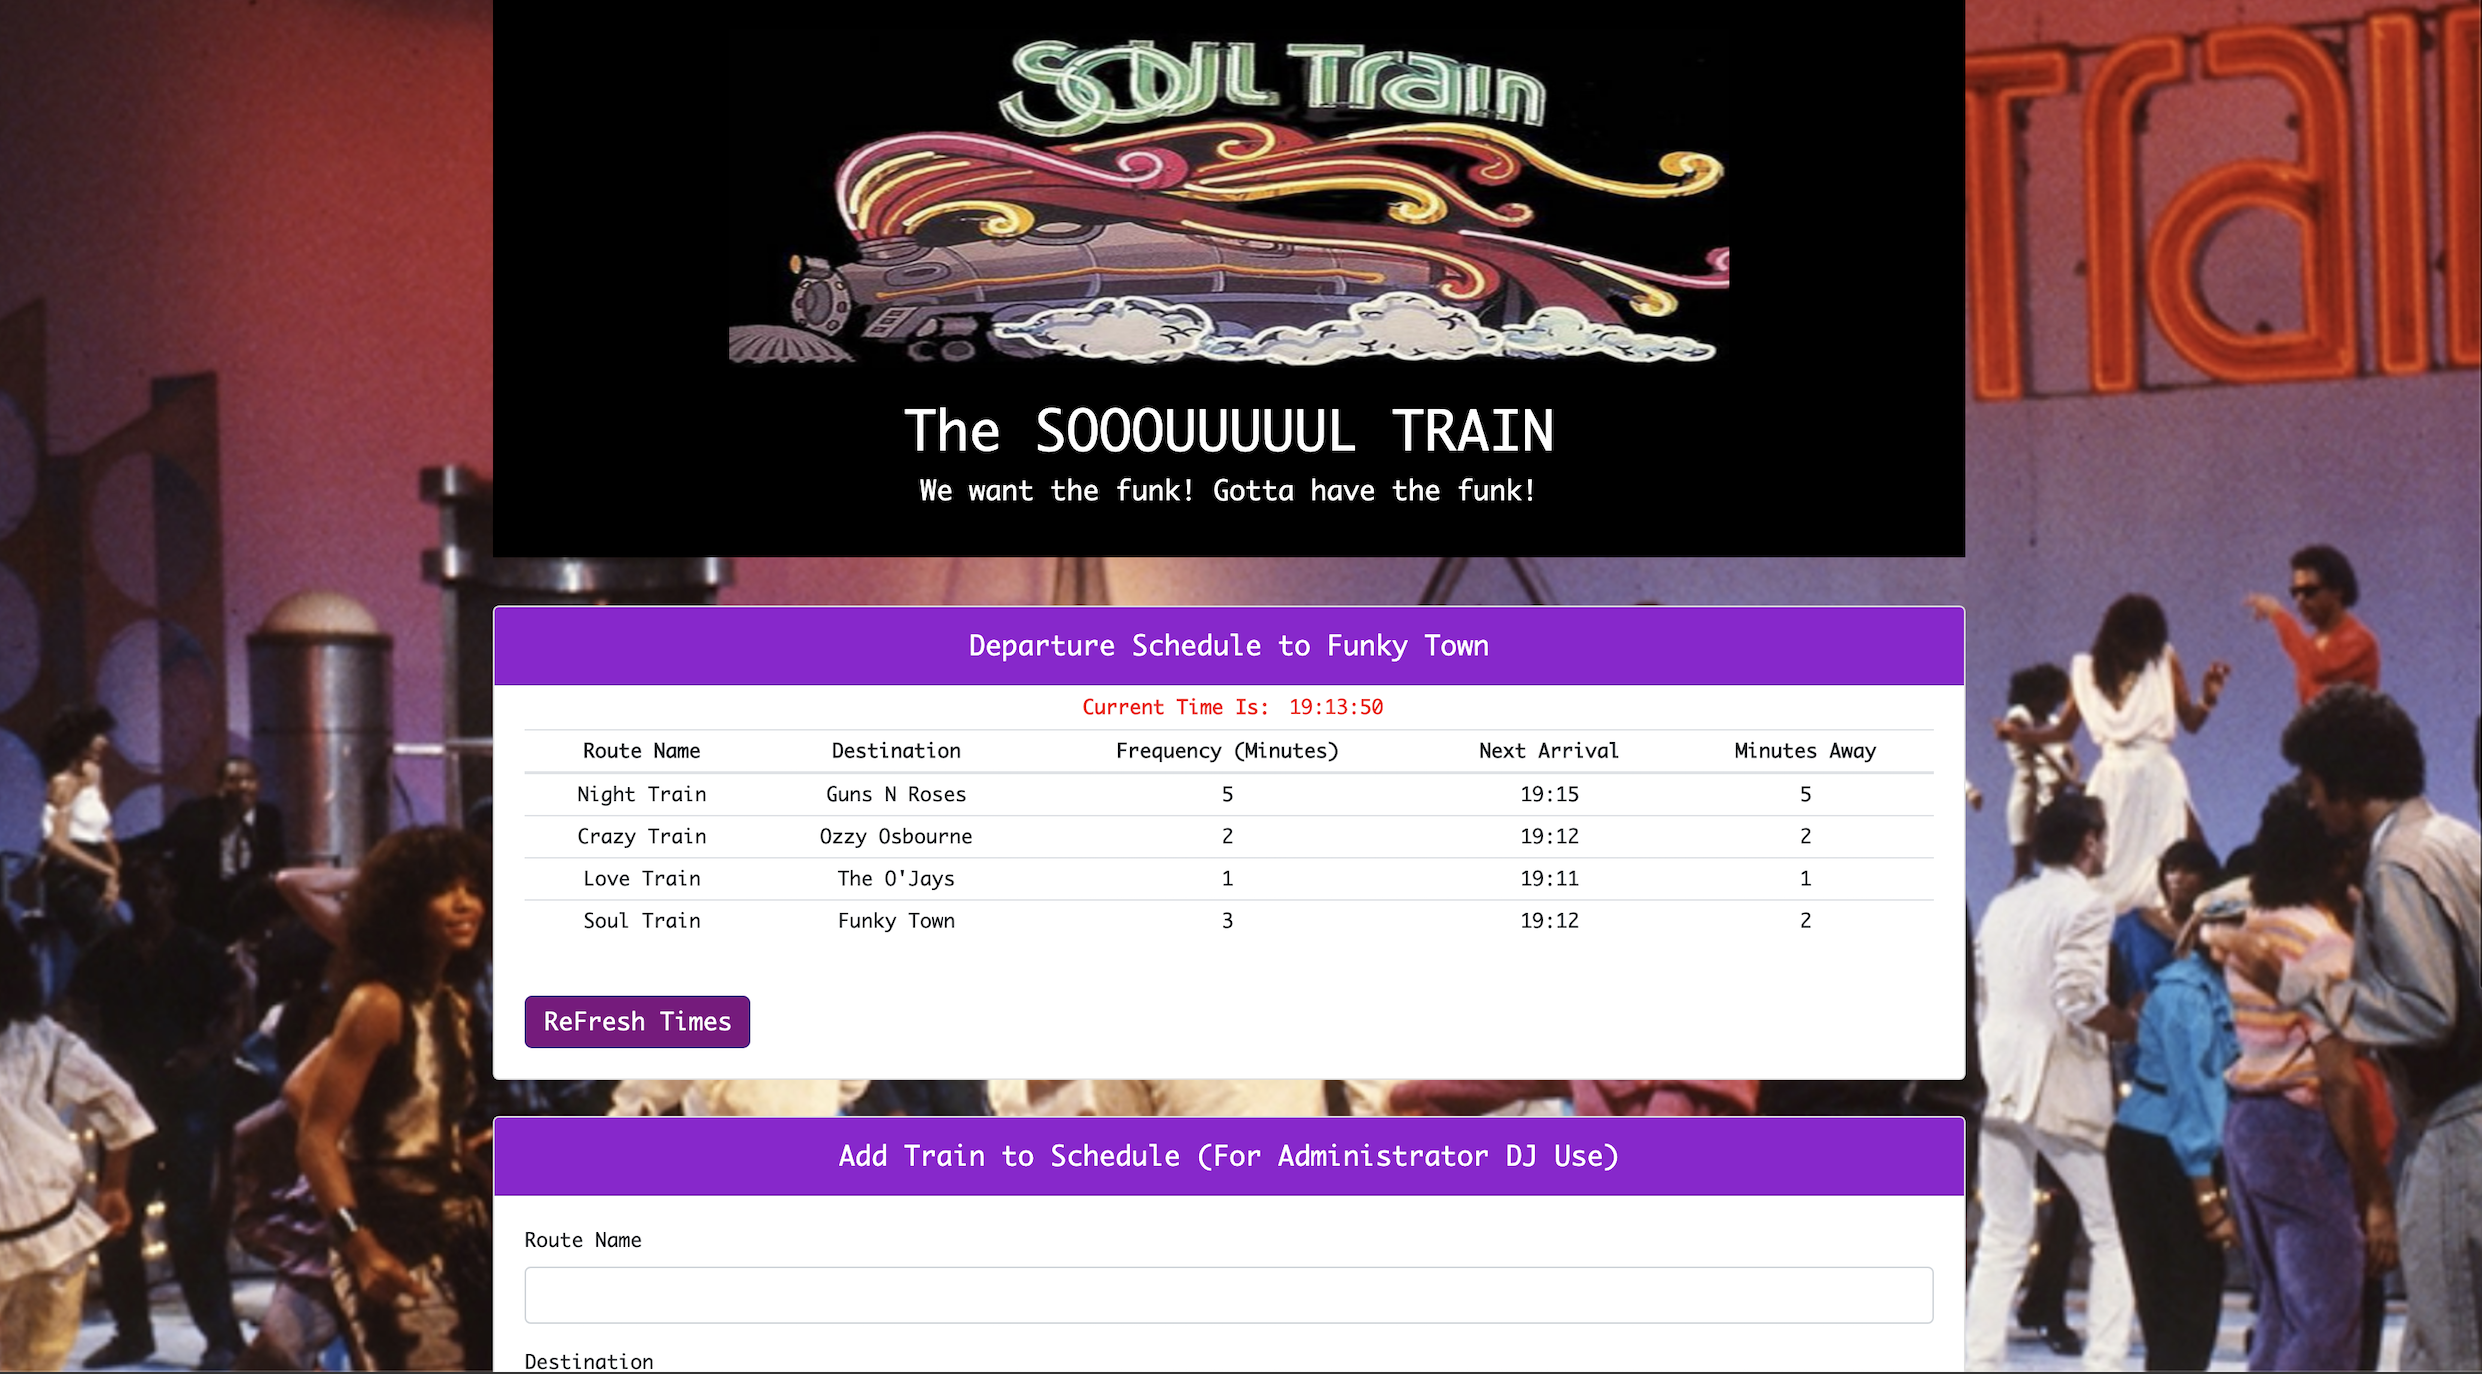
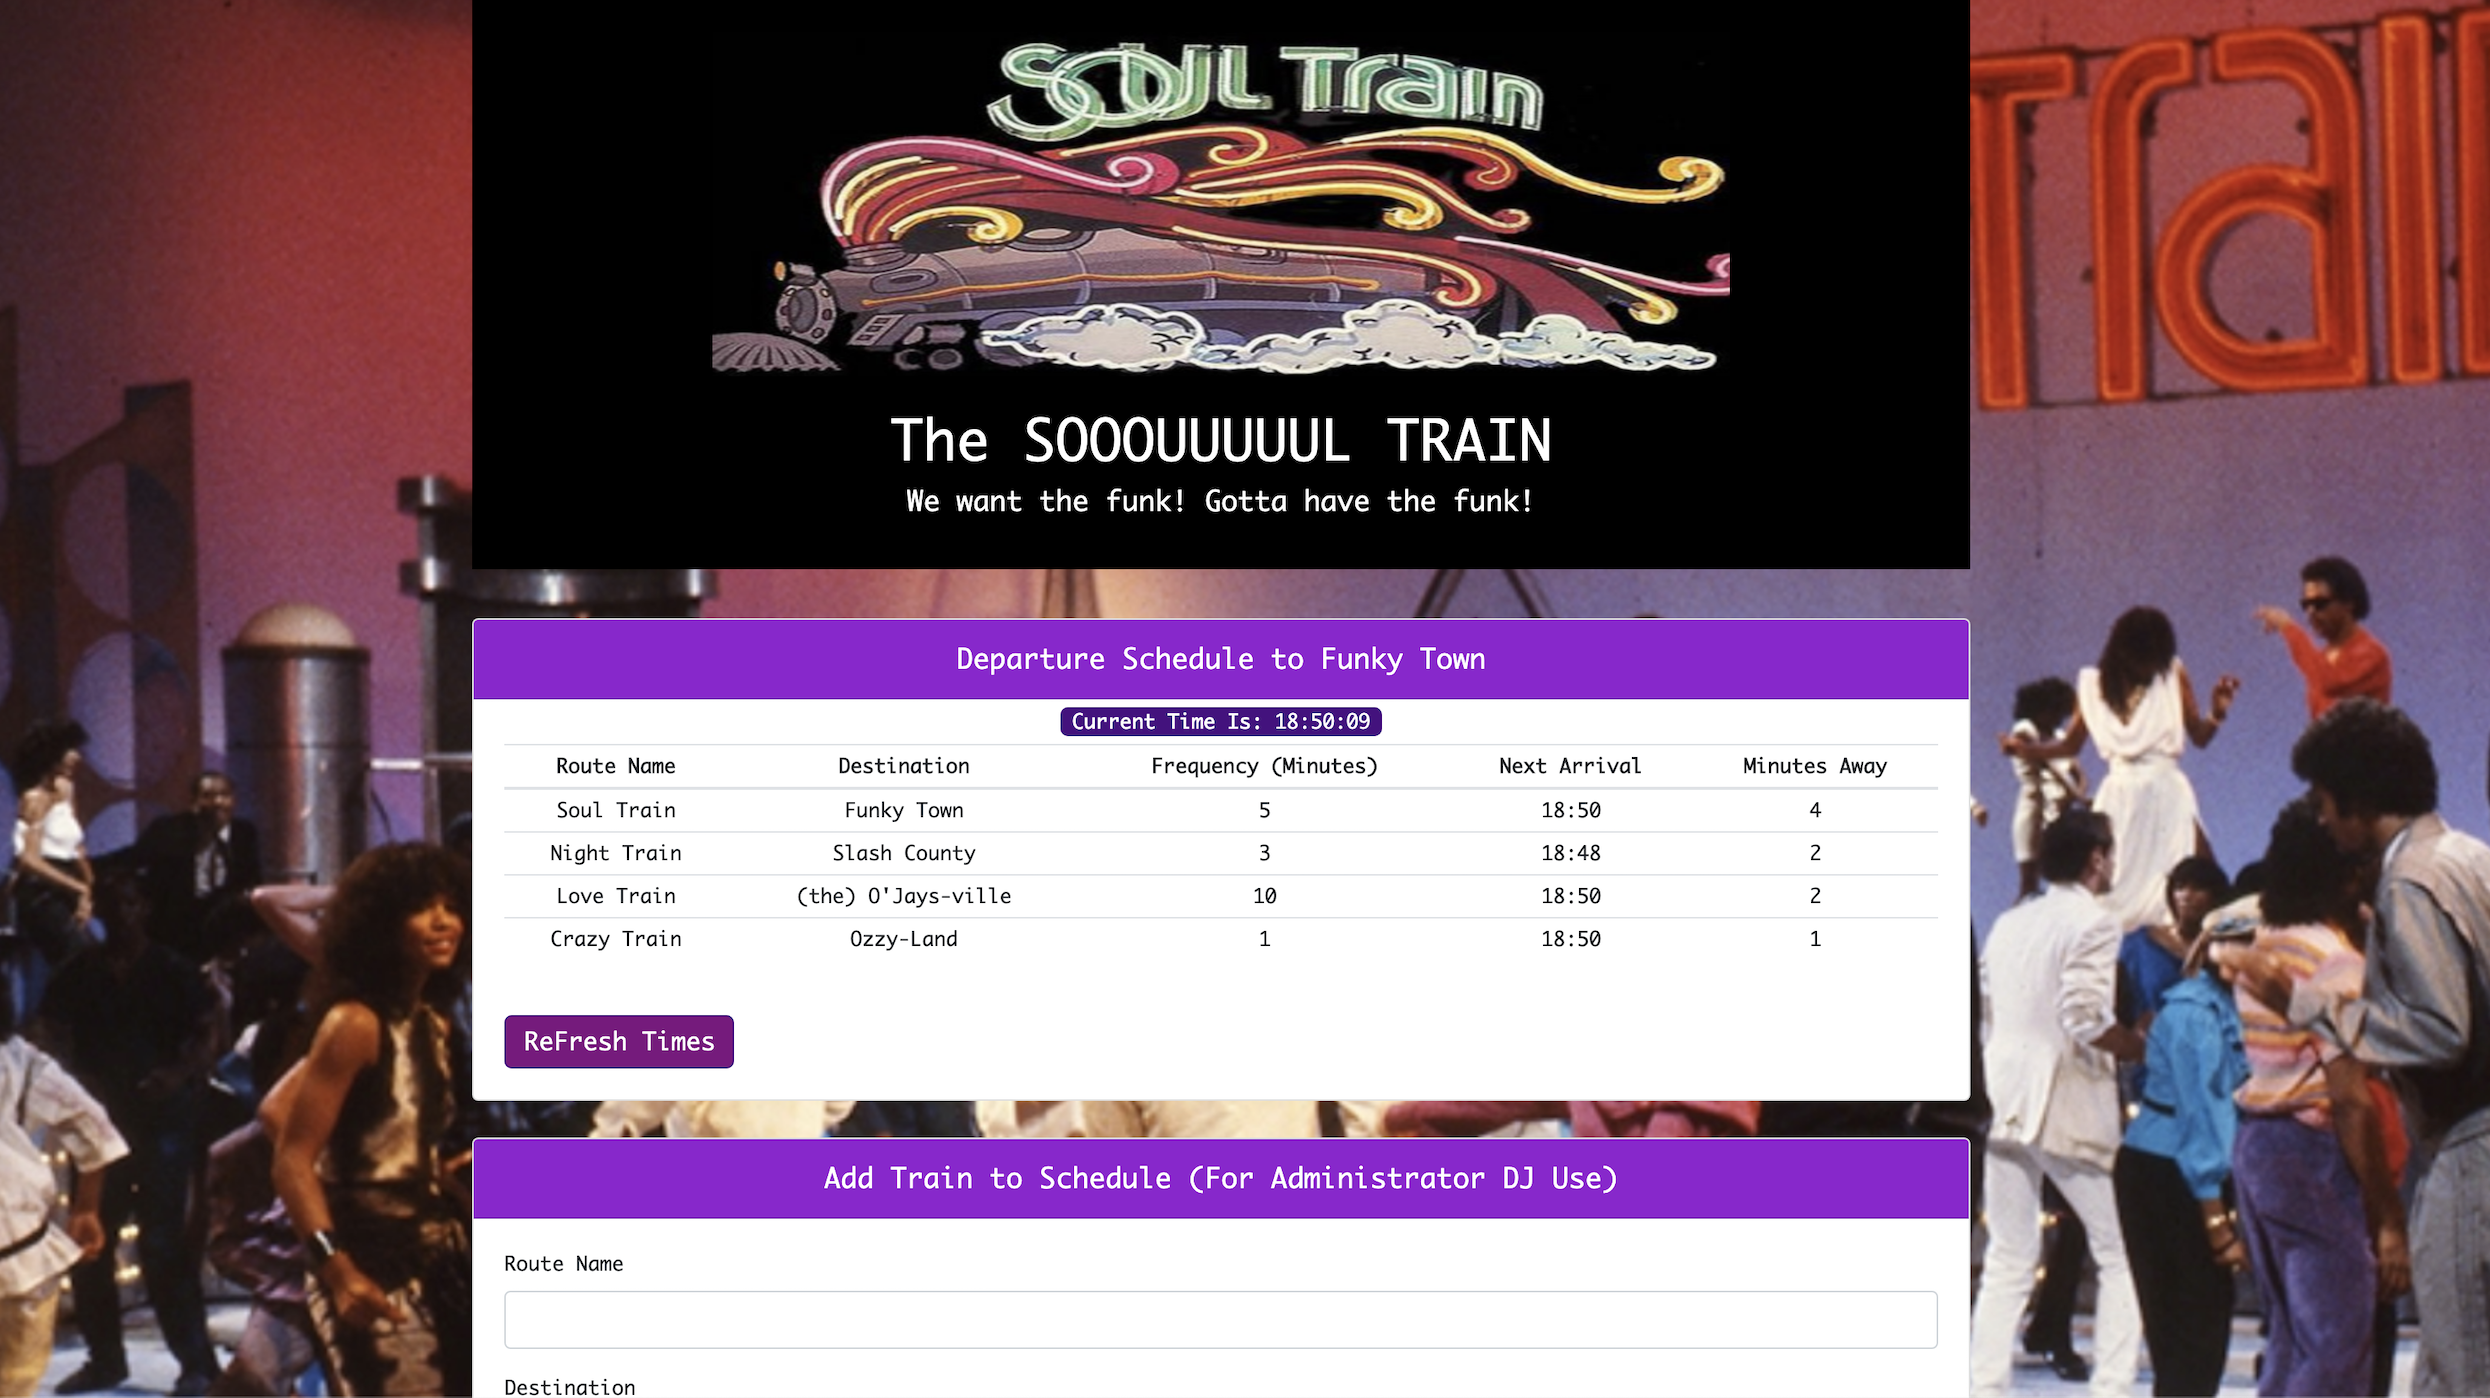
ade final touch-ups to html and css. finished READMe. played around with setInterval in appTest.js

diff --git a/assets/javascript/appTest.js b/assets/javascript/appTest.js
@@ -7,3 +7,29 @@ var dynamicTime = function() {
 }
 setInterval(dynamicTime, 1000);
 currentTimeDOM.text(dynamicTime);
+
+// Experimenting with trying to make nextArrival dynamic.
+
+var nextArrivalDynamic = function() {
+  var nextArrival = frequencyInput - timeRemainder;
+  var nextArrivalFormatted = moment(nextArrival).format('mm:ss');
+  $('<td>').text(nextArrivalFormatted);
+};
+
+nextArrivalDynamic();
+setInterval(nextArrivalDynamic, 1000);
+
+var nextArrivalAdd = moment().add(nextArrival, 'minutes');
+var nextTrainArrival = moment(nextArrivalAdd).format('HH:mm');
+console.log('Time Arriving: ' + nextTrainArrival);
+
+
+var tableRow = $('<tr>');
+
+tableRow.append(
+  $('<td>').text(routeInput),
+  $('<td>').text(destinationInput),
+  $('<td>').text(frequencyInput),
+  $('<td>').text(nextTrainArrival),
+  $('<td>').text(nextArrivalDynamic),
+)

diff --git a/assets/javascript/app.js b/assets/javascript/app.js
@@ -51,7 +51,6 @@ submit.on('click', function(event) {
   console.log(addTrain.destination);
   console.log(addTrain.firstTrain);
   console.log(addTrain.frequency);
-  alert('Schedule Updated');
 
   // This removes the text from the input fields in the form after the the user clicks the submit button. 
   $('#input-for-route').val('');
@@ -62,7 +61,7 @@ submit.on('click', function(event) {
 
 // Using firebase's built-in methods, this main function will add what the user inputed in the form to the firebase database and then appened to the the HTML table. 
 database.ref().on('child_added', function(childSnapshot) {
-  console.log(childSnapshot.val())
+  console.log(childSnapshot.val());
 
   // Creating variables to store the form input data using firebase's childSnapshot() method. 
   var routeInput = childSnapshot.val().route;

diff --git a/assets/css/style.css b/assets/css/style.css
@@ -37,13 +37,15 @@ img {
 
 .container-for-current-time {
   margin: auto;
-  padding-top: 5px;
+  margin-top: 5px;
   margin-bottom: -15px;
   text-align: center;
+  background-color: #4B0082;
+  color: white;
+  border-radius: 5px;
 }
 
 #current-time {
-  color: red;
   width: 140px;
   font-family: Monaco, 'Courier New', monospace;
   font-size: 13px;
@@ -53,12 +55,10 @@ img {
 
 #current-time-dom {
   float: right;
-  color: red;
   font-family: Monaco, 'Courier New', monospace;
   font-size: 13px;
   width: 70px;
   margin: auto;
-  padding-left: 5px;
   text-align: left;
 }
 

diff --git a/index.html b/index.html
@@ -40,7 +40,7 @@
             <div id="current-time-dom"><b></b></div>
           </div>
           <div class="card-body">
-            <table class="table table-sm table-hover" id="train-schedule-table">
+            <table class="table table-sm table-hover">
               <thead>
                 <tr id="departure-schedule">
                   <th scope="col">Route Name</th>

diff --git a/README.md b/README.md
@@ -4,7 +4,7 @@
 ![](assets/images/screen-shot.png)
 
 ## About the project:
-We had to build an app that a hypotetical train administrator could use to add train lines to a table. The user fills out input fields on a form and submits the data. The data is then pushed up to my Firebase database. Immediately, the data is then appened down into a table on the DOM. 
+We had to build an app that a hypotetical train administrator could use to add train lines to a table. The user fills out input fields on a form and submits the data. The data is then pushed up to my Firebase database. Immediately, the data is then appended back down into a table on the DOM. 
 
   * When adding trains, administrators should be able to submit the following:
     * Train Name
@@ -30,28 +30,36 @@ I reviewed the class activities in Firebase and used them as guides in helping t
 
 Pushing the data up to the Firebase data was pretty straighfoward as guided by our class exercises. So was formatting the times using Moment. I ran into some bugs trying to get the table appended correctly back onto the DOM. For some reason, the method outlined in the timesheet activity wasn't working for me so I made a tiny deviation. I created another ID in the tbody tag to append the table to and it worked. I also got a functioning time clock running. Now, for the bonus section, I'm trying to make the minutes away numbers in the last column dynamic.
 
-## Code Snippits I'm Proud Of:
+## Code Snippits I like:
+  1. I made a button so the user can click on to refresh the next arrival and minutes away             times since they're not (yet) dynamic. The train schedule data ("Route Name", "Destination",      "Frequency in Minutes" does not reset)
 
-  1. This is pretty straight-foward but it's just telling me that my problem solving is evoling.
-    <tbody id="for-append" style="font-family: Monaco, 'Courier New', monospace; font-size: 13px; text-align: center;">
+      var refresh = $('#refresh');
 
-    var trainScheduleTable = $('#for-append');
-    trainScheduleTable.append(tableRow);
+      refresh.on('click', function() {
+      location.reload(true);
 
-  2.This is my dynamic clock in the table section (Must give props to Daniel for this!). My next goal is to make the Minutes Away all dynamic.
+  2. This is my dynamic clock in the table section (Must give props to Daniel for this!). I made this so the user can have a clock to reference the next arrival and minutes away columns. My stretch goal is to make the Next Arrival and Minutes Away numbers all dynamic.
 
     // This fumnction uses moment's time method to format the clock time in military time to the seconds.
-    var currentTimeClock = function() {
-    var currentTime = moment();
-    var currentTimeFormatted = moment(currentTime).format('HH:mm:ss');
-    currentTimeDOM.text(currentTimeFormatted);
+      var currentTimeClock = function() {
+      var currentTime = moment();
+      var currentTimeFormatted = moment(currentTime).format('HH:mm:ss');
+      currentTimeDOM.text(currentTimeFormatted);
   }
-
     // Using setInterval method to make the clock dynamic. 
-    setInterval(currentTimeClock, 1000);
-    currentTimeDOM.text(currentTimeClock);
+      setInterval(currentTimeClock, 1000);
+      currentTimeDOM.text(currentTimeClock);
 
-## Links to portfolio pages (This app has been added to my portfolio): 
+  3. This is pretty simple but it's a solution to a bug where the data was not appending to the        table. I followed the timesheet exercise and in there, the data was appended to an id in the      thead section. That was not working for me so I experimemnted with work-arounds and targeting     a new id in the tbody section worked. I just like this because I probably would not have          thought of this so quickly one-and-a-half to two weeks ago. 
+    
+      tbody id="for-append" style="font-family: Monaco, 'Courier New', monospace; font-size: 13px; text-align: center;">
+
+      var trainScheduleTable = $('#for-append');
+      trainScheduleTable.append(tableRow);
+
+## Links to portfolio pages (This app has been added to my portfolio pages): 
+
+#### Please Note - I see that adding this project messed up the css formatting in each of those pages' portfolio content box. However, I intend to build my real portfolio page fromm scratch for the next home work assignment "Updating Your Portfolio Page". That's why I'm not fixing these at this moment.
 
 https://olisun.github.io/Bootstrap-Portfolio/portfolio.html
 

diff --git a/brainstorm.md b/brainstorm.md
@@ -33,4 +33,5 @@
 ## Bugs
   1. table info not appending back to the DOM. Error message says frequency var not defind. 
   2. Current time not showing up in the div set up for it. 
+  3. (Bonus Goal): trying to get Minutes Away column dynamic. Not working so far.
 
